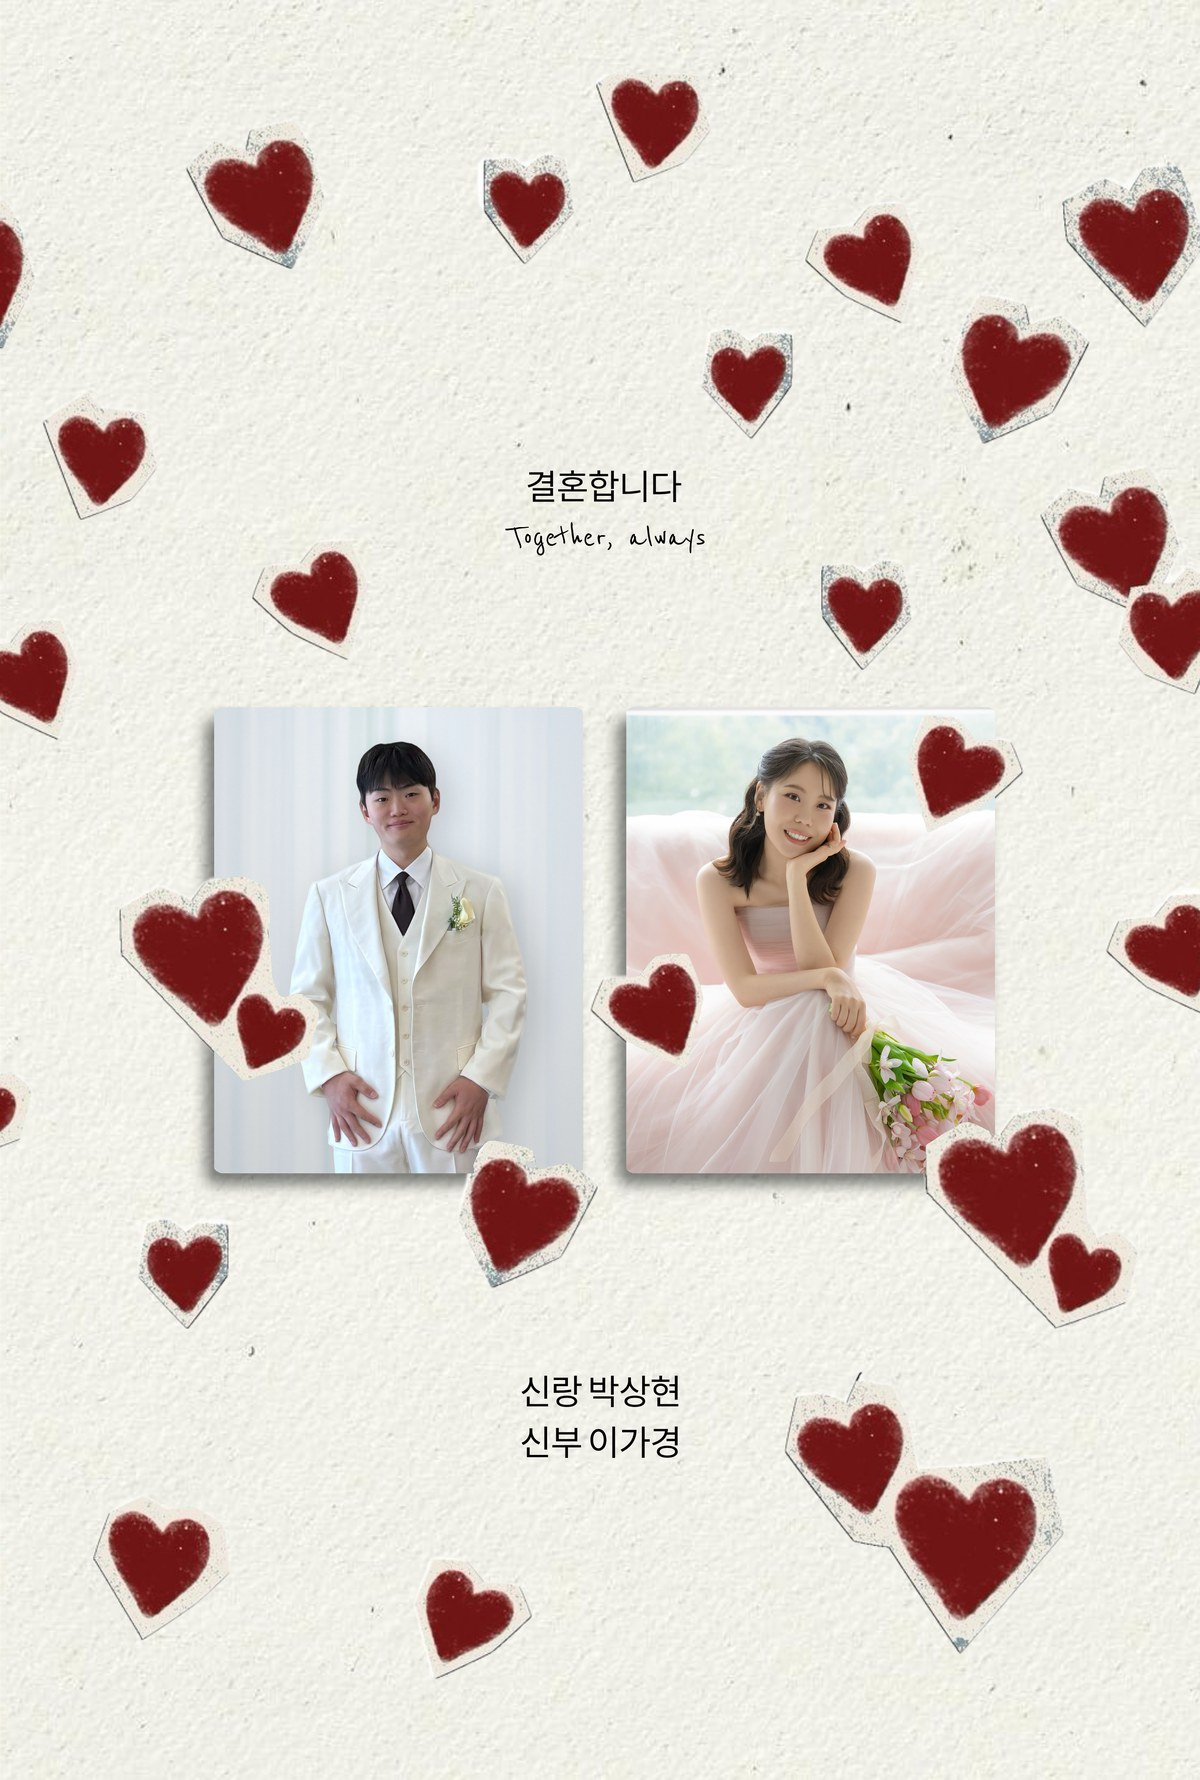
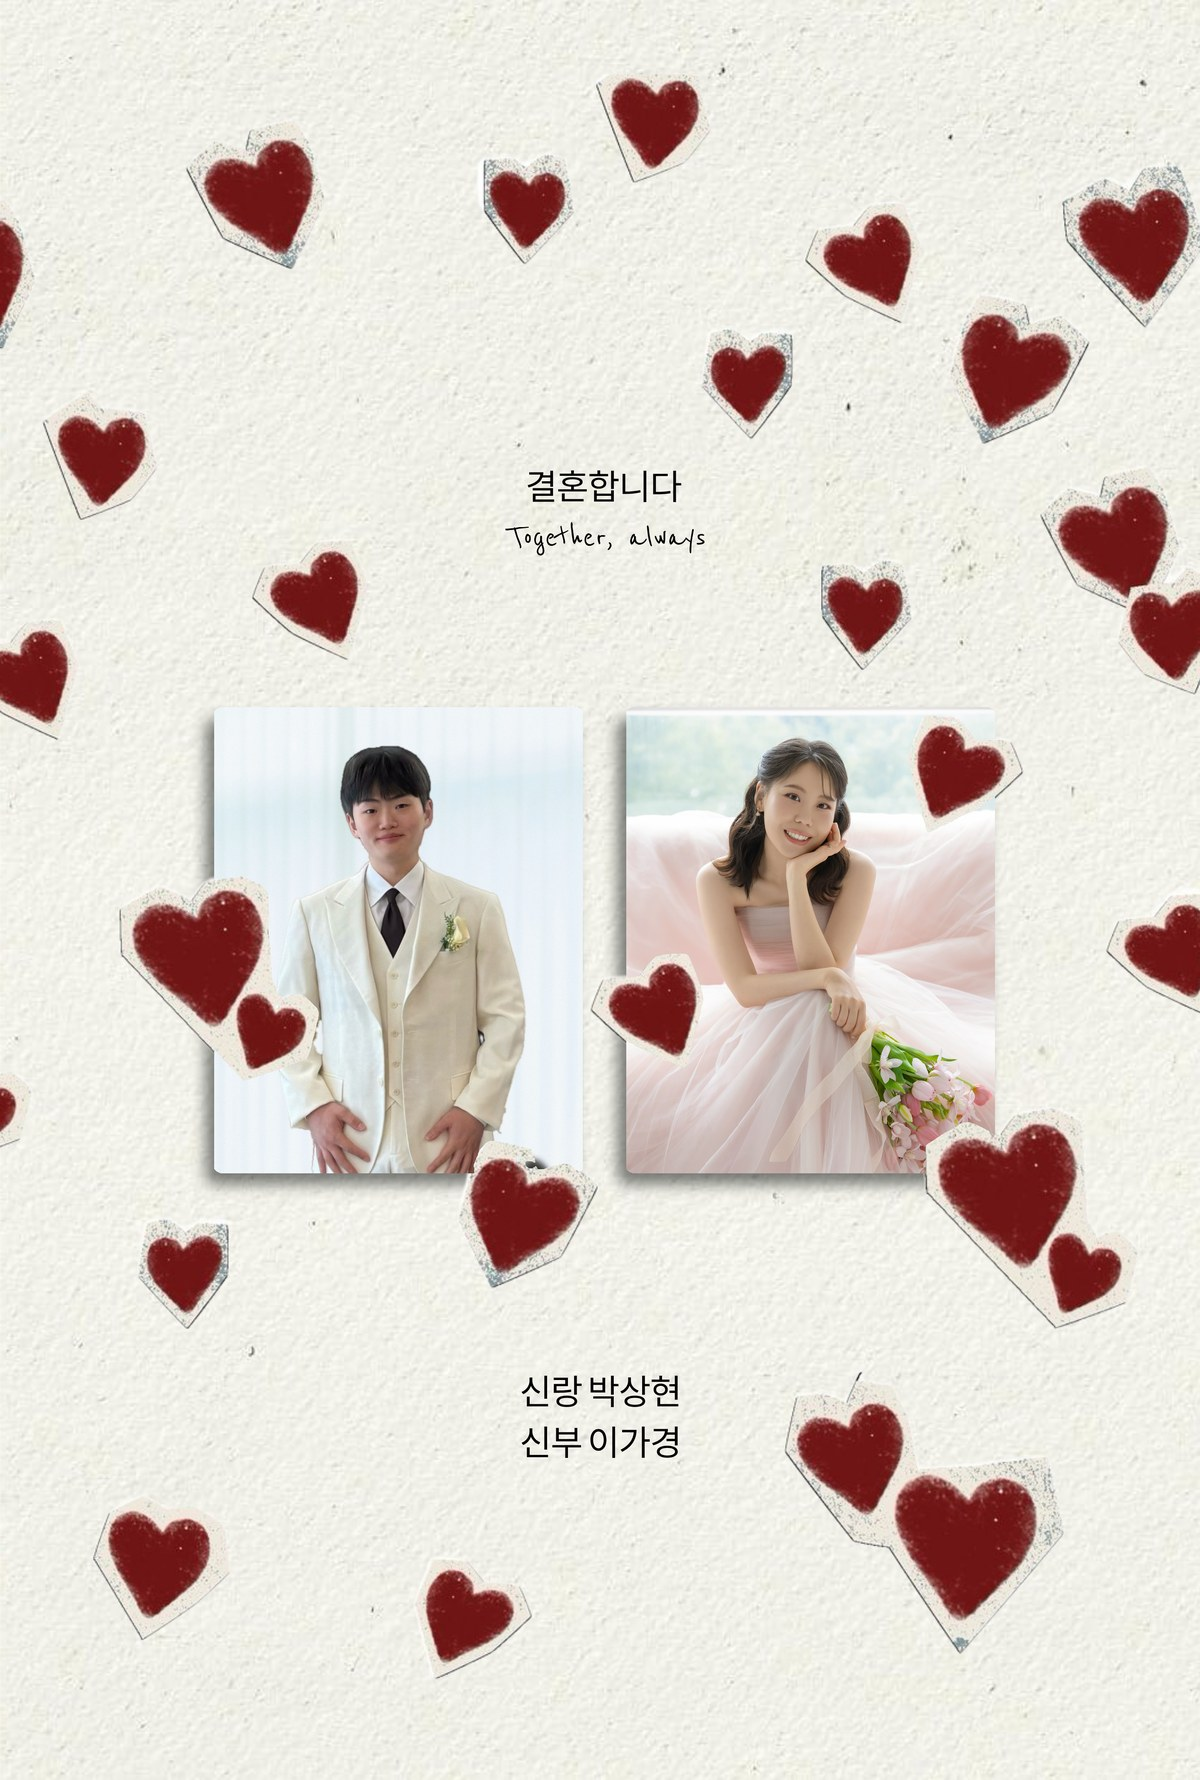
Update cover photo with refined white tuxedo groom portrait
- Clean up dark drop-shadow and sticker outline from groom cutout
- Perform color de-fringing to extend suit tones into semi-transparent edges
- Composite seamlessly onto studio white curtain background with soft light wrap
- Harmonize head size and eye level with bride portrait in cover windows
- Bump cover.jpg cache version to v=28 in index.html

Changed region(s): [[0.1542, 0.4017, 0.4933, 0.6798], [0.185, 0.4017, 0.2158, 0.4326]]

diff --git a/index.html b/index.html
@@ -7,7 +7,7 @@
   <title>박상현 ♥ 이가경 결혼합니다</title>
   <meta property="og:title" content="박상현 ♥ 이가경 결혼합니다">
   <meta property="og:description" content="2027년 2월 13일 토요일 낮 12시 10분">
-  <meta property="og:image" content="img/cover.jpg?v=27">
+  <meta property="og:image" content="img/cover.jpg?v=28">
   <link rel="preconnect" href="https://fonts.googleapis.com">
   <link rel="preconnect" href="https://fonts.gstatic.com" crossorigin>
   <link
@@ -29,7 +29,7 @@
 
     <!-- 1. 인트로 -->
     <section class="intro" id="intro">
-      <img src="img/cover.jpg?v=27" alt="박상현 이가경 결혼합니다">
+      <img src="img/cover.jpg?v=28" alt="박상현 이가경 결혼합니다">
     </section>
 
     <!-- 2. Our Wedding day -->
@@ -51,7 +51,7 @@
         <img src="img/tape.png" alt="">
         <p style="top:13.4%">해맑게 웃던 모습에 서로 반했고,</p>
         <p style="top:30%">그 웃음을 지켜보다보니</p>
-        <p style="top:47.7%">이제는 서로가 없어서는 안될 존재가 되었습니다.,</p>
+        <p style="top:47.7%">이제는 서로가 없어서는 안될 존재가 되었습니다.</p>
         <p style="top:65%">그 마음을 오래 지키기 위해</p>
         <p style="top:82.4%">이제 부부가 되려 합니다.</p>
       </div>

diff --git a/tools/process_groom_white.py b/tools/process_groom_white.py
@@ -1,0 +1,148 @@
+# -*- coding: utf-8 -*-
+import cv2
+import numpy as np
+from PIL import Image, ImageOps
+
+ROOT = r"d:\coding\Wedding"
+SRC_PATH = r"d:\coding\Wedding\웨딩사진\신랑사진_화이트.jpg"
+CURTAIN_PATH = r"d:\coding\Wedding\웨딩사진\15.jpg"
+MASK_PATH = r"d:\coding\Wedding\tools\rembg_mask.png"
+
+# Load source image
+src_img = Image.open(SRC_PATH).convert("RGB")
+src_rgb = np.array(src_img).astype(np.float32)
+H, W = src_rgb.shape[:2]
+
+# Load rembg mask
+mask_img = Image.open(MASK_PATH).convert("L")
+mask = np.array(mask_img).astype(np.float32) / 255.0
+
+# 1. Clean the suit body mask (y >= 340)
+# Detect the dark drop shadow on the outer border of the suit
+# Luminance: 0.299 R + 0.587 G + 0.114 B
+lum = 0.299 * src_rgb[..., 0] + 0.587 * src_rgb[..., 1] + 0.114 * src_rgb[..., 2]
+
+# Outer background mask (where original was white)
+is_white_bg = (src_rgb[..., 0] > 248) & (src_rgb[..., 1] > 248) & (src_rgb[..., 2] > 248)
+
+# Find pixels within distance of 8px from white background
+dist_to_bg = cv2.distanceTransform(is_white_bg.astype(np.uint8), cv2.DIST_L2, 5)
+dist_from_inside = cv2.distanceTransform((mask > 0.5).astype(np.uint8), cv2.DIST_L2, 5)
+
+# On the suit (y >= 340):
+# If a pixel has luminance < 170 and is within 7px of the outer edge, it's the artificial dark shadow!
+# Note: Hands at y > 750 have skin tone (R > G > B, lum ~140-190).
+# Let's check skin tone: (R > G + 15) & (G > B). We don't want to cut real fingers.
+is_skin = (src_rgb[..., 0] > src_rgb[..., 1] + 12) & (src_rgb[..., 1] > src_rgb[..., 2] - 5)
+is_shadow_fringe = (lum < 175) & ~is_skin & (dist_from_inside < 6.5)
+
+# Clear shadow fringe from mask for y >= 340
+clean_mask = mask.copy()
+suit_region = np.zeros((H, W), dtype=bool)
+suit_region[340:, :] = True
+clean_mask[suit_region & is_shadow_fringe] = 0.0
+
+# Morphological smoothing on clean_mask to remove small spikes/notches
+clean_mask_bin = (clean_mask > 0.5).astype(np.uint8)
+# Close small holes
+clean_mask_bin = cv2.morphologyEx(clean_mask_bin, cv2.MORPH_CLOSE, cv2.getStructuringElement(cv2.MORPH_ELLIPSE, (5, 5)))
+# Smooth edge with guided filter / bilateral / gaussian
+clean_alpha = cv2.GaussianBlur(clean_mask_bin.astype(np.float32), (5, 5), 1.0)
+# Ensure binary core is solid
+solid_core = cv2.erode(clean_mask_bin, np.ones((7, 7), np.uint8)).astype(bool)
+clean_alpha[solid_core] = 1.0
+
+# 2. Edge color decontamination (color extension / defringing)
+# For all edge pixels (0.01 < clean_alpha < 0.99), fill their RGB with the color of the solid foreground!
+fg_rgb = src_rgb.copy()
+# Erode solid foreground by 3px so we only sample true inner colors
+sample_mask = cv2.erode(clean_mask_bin, np.ones((5, 5), np.uint8)).astype(bool)
+# Normalized convolution for smooth color extension
+num = cv2.GaussianBlur(fg_rgb * sample_mask[..., None], (0, 0), 12)
+den = cv2.GaussianBlur(sample_mask.astype(np.float32), (0, 0), 12)[..., None] + 1e-6
+extended_color = num / den
+
+# Where alpha is semi-transparent, replace RGB with extended_color
+edge_region = (clean_alpha > 0.01) & (clean_alpha < 0.98)
+fg_decontaminated = np.where(edge_region[..., None], extended_color, fg_rgb)
+
+# Save intermediate cutout with transparent background
+rgba = np.dstack([fg_decontaminated, clean_alpha * 255]).clip(0, 255).astype(np.uint8)
+Image.fromarray(rgba).save(r"d:\coding\Wedding\tools\clean_groom_cutout.png")
+print("Saved clean_groom_cutout.png")
+
+# 3. Create Studio Curtain Background (matching 15.jpg)
+cur = ImageOps.exif_transpose(Image.open(CURTAIN_PATH)).convert("RGB")
+cw, ch = cur.size
+band = cur.crop((0, 0, cw, int(ch * 0.32)))
+# Target canvas for groom: 885 x 1119 (the exact window size in poster)
+TARGET_W, TARGET_H = 885, 1119
+
+# Resize curtain band to fill TARGET_W, TARGET_H
+k = TARGET_H * 1.0 / band.height
+band_resized = band.resize((int(band.width * k * 0.55), TARGET_H), Image.LANCZOS)
+bg_canvas = Image.new("RGB", (TARGET_W, TARGET_H))
+cur_x = 0
+flip = False
+while cur_x < TARGET_W:
+    tile = ImageOps.mirror(band_resized) if flip else band_resized
+    bg_canvas.paste(tile, (cur_x, 0))
+    cur_x += band_resized.width
+    flip = not flip
+
+# Soft depth of field blur on curtain
+bg_arr = cv2.GaussianBlur(np.array(bg_canvas).astype(np.float32), (0, 0), 6)
+# Match lighting: slight brightness and gentle radial vignette
+bg_arr *= 0.98
+
+# 4. Place groom onto the curtain background
+# We want head top around y = 85, head width ~ 240
+# Groom cutout: hair top is at y=160, chin at y=360 (height 200), width ~ 460
+# Scale factor:
+scale = 1.35
+new_w = int(W * scale)
+new_h = int(H * scale)
+
+# Resize fg and alpha
+fg_resized = cv2.resize(fg_decontaminated, (new_w, new_h), interpolation=cv2.INTER_LANCZOS4)
+alpha_resized = cv2.resize(clean_alpha, (new_w, new_h), interpolation=cv2.INTER_LANCZOS4)
+
+# We want hair top (was at y=160 -> now at 160 * 1.35 = 216) to be at y = 90
+paste_y = 90 - int(160 * scale)
+# Center horizontally: groom center is around x = 288 * scale = 388 -> want at 442
+paste_x = (TARGET_W // 2) - int(288 * scale)
+
+# Composite onto bg_canvas
+out_canvas = bg_arr.copy()
+
+# Compute overlap
+src_y0 = max(0, -paste_y)
+src_y1 = min(new_h, TARGET_H - paste_y)
+src_x0 = max(0, -paste_x)
+src_x1 = min(new_w, TARGET_W - paste_x)
+
+dst_y0 = max(0, paste_y)
+dst_y1 = dst_y0 + (src_y1 - src_y0)
+dst_x0 = max(0, paste_x)
+dst_x1 = dst_x0 + (src_x1 - src_x0)
+
+fg_patch = fg_resized[src_y0:src_y1, src_x0:src_x1]
+a_patch = alpha_resized[src_y0:src_y1, src_x0:src_x1, None]
+bg_patch = out_canvas[dst_y0:dst_y1, dst_x0:dst_x1]
+
+# Light wrap (subtle wrap around groom body to integrate with white background)
+bgb = cv2.GaussianBlur(bg_patch, (0, 0), 25)
+wrap = np.clip(cv2.GaussianBlur(a_patch[..., 0], (0, 0), 8) - cv2.GaussianBlur(a_patch[..., 0], (0, 0), 16), 0, 0.25)[..., None]
+fg_blended = fg_patch * (1 - wrap) + np.maximum(fg_patch, bgb) * wrap
+
+comp_patch = fg_blended * a_patch + bg_patch * (1 - a_patch)
+out_canvas[dst_y0:dst_y1, dst_x0:dst_x1] = comp_patch
+
+# Add delicate photographic film grain matching studio portrait
+noise = np.random.default_rng(42).normal(0, 1.8, (TARGET_H, TARGET_W, 1)).astype(np.float32)
+out_canvas = np.clip(out_canvas + noise, 0, 255).astype(np.uint8)
+
+out_img = Image.fromarray(out_canvas)
+out_path = r"d:\coding\Wedding\tools\test_groom_fitted.jpg"
+out_img.save(out_path, quality=95)
+print(f"Saved fitted groom window: {out_path} ({TARGET_W}x{TARGET_H})")

diff --git a/tools/make_mockup_cards.py b/tools/make_mockup_cards.py
@@ -1,0 +1,147 @@
+# -*- coding: utf-8 -*-
+import os
+import shutil
+from PIL import Image, ImageDraw, ImageFont
+
+ROOT = r"d:\coding\Wedding"
+TAPE_PATH = os.path.join(ROOT, "img", "tape.png")
+BG_PATH = os.path.join(ROOT, "img", "bg-wine.jpg")
+FONTS_DIR = os.path.join(ROOT, "tools", "fonts")
+OUT_DIR = os.path.join(ROOT, "tools", "mockups_clean")
+ARTIFACT_DIR = r"C:\Users\pshyu\.gemini\antigravity\brain\90308072-c840-4aae-9a8e-acf47a12716f\mockups"
+
+os.makedirs(OUT_DIR, exist_ok=True)
+os.makedirs(ARTIFACT_DIR, exist_ok=True)
+
+# 5 lines
+LINES = [
+    (0.134, "해맑게 웃던 모습에 서로 반했고,"),
+    (0.300, "그 웃음을 지켜보다보니"),
+    (0.477, "이제는 서로가 없어서는 안될 존재가 되었습니다."),
+    (0.650, "그 마음을 오래 지키기 위해"),
+    (0.824, "이제 부부가 되려 합니다.")
+]
+
+# Candidates: (num, code, display_name, description, font_file, font_size)
+CANDIDATES = [
+    (1, "gowun_dodum", "고운돋움", "라벨기 인쇄 감성 · 단정하고 깔끔한 감성 고딕", "GowunDodum-Regular.ttf", 46),
+    (2, "gowun_batang", "고운바탕", "시집·문학작품 같은 서정적이고 단아한 명조", "GowunBatang-Regular.ttf", 46),
+    (3, "gaegu", "개구 (기존)", "자유롭고 귀여운 내추럴 손글씨", "Gaegu-Regular.ttf", 52),
+    (4, "dongle", "동글", "둥글둥글 따뜻하고 아기자기한 볼펜체", "Dongle-Regular.ttf", 68),
+    (5, "hi_melody", "하이멜로디", "소녀 일기장처럼 부드럽고 산뜻한 펜글씨", "HiMelody-Regular.ttf", 52),
+    (6, "gamja_flower", "감자꽃", "또박또박 정성스럽게 쓴 일기장 손글씨", "GamjaFlower-Regular.ttf", 48),
+    (7, "poor_story", "푸어스토리", "빈티지 다이어리 느낌의 내추럴 펜체", "PoorStory-Regular.ttf", 48),
+    (8, "yeon_sung", "연성체", "붓펜 캘리 느낌의 따뜻하고 운치 있는 글씨", "YeonSung-Regular.ttf", 48),
+    (9, "song_myung", "송명", "붓터치가 느껴지는 기품 있고 우아한 명조", "SongMyung-Regular.ttf", 48),
+]
+
+tape_raw = Image.open(TAPE_PATH).convert("RGBA")
+tw, th = tape_raw.size
+
+# Background tile
+bg_tile = Image.open(BG_PATH).convert("RGB")
+
+def render_single_mockup(cand):
+    num, code, name, desc, font_file, fsize = cand
+    font_path = os.path.join(FONTS_DIR, font_file)
+    font = ImageFont.truetype(font_path, fsize)
+    
+    # Canvas: width = tw + 80 = 1080, height = th + 180 = 946
+    cw, ch = tw + 80, th + 170
+    
+    # Tile wine bg
+    canvas = Image.new("RGB", (cw, ch))
+    for x in range(0, cw, bg_tile.width):
+        for y in range(0, ch, bg_tile.height):
+            canvas.paste(bg_tile, (x, y))
+            
+    # Paste tape
+    tape_x = (cw - tw) // 2
+    tape_y = 120
+    canvas.paste(tape_raw, (tape_x, tape_y), tape_raw)
+    
+    draw = ImageDraw.Draw(canvas)
+    
+    # Title badge on top
+    badge_x0, badge_y0 = 30, 20
+    badge_x1, badge_y1 = cw - 30, 100
+    # Rounded badge
+    draw.rounded_rectangle([badge_x0, badge_y0, badge_x1, badge_y1], radius=12, fill=(40, 10, 15, 230), outline=(212, 175, 55), width=2)
+    
+    header_font = ImageFont.truetype(os.path.join(FONTS_DIR, "GowunDodum-Regular.ttf"), 30)
+    sub_font = ImageFont.truetype(os.path.join(FONTS_DIR, "GowunDodum-Regular.ttf"), 20)
+    
+    draw.text((cw // 2, badge_y0 + 26), f"[{num}번] {name}", font=header_font, fill=(255, 245, 220), anchor="mm")
+    draw.text((cw // 2, badge_y0 + 58), desc, font=sub_font, fill=(230, 210, 190), anchor="mm")
+    
+    # Text lines on tape
+    for rel_y, line_text in LINES:
+        ty = tape_y + int(th * rel_y)
+        tx = cw // 2
+        draw.text((tx, ty), line_text, font=font, fill=(44, 26, 18), anchor="mm")
+        
+    return canvas
+
+rendered_images = []
+for cand in CANDIDATES:
+    img = render_single_mockup(cand)
+    filename = f"mockup_{cand[0]}_{cand[1]}.jpg"
+    out_path = os.path.join(OUT_DIR, filename)
+    img.save(out_path, quality=93)
+    
+    # Also copy to artifact dir
+    art_path = os.path.join(ARTIFACT_DIR, filename)
+    img.save(art_path, quality=93)
+    
+    rendered_images.append((cand, img, out_path, art_path))
+    print(f"Rendered {filename}")
+
+# Generate a 3x3 compact comparison grid (or 3-column / 3-row)
+# Let's create a 3x3 grid overview:
+cols = 3
+rows = 3
+cell_w = 480
+cell_h = int(946 * (480 / 1080))
+grid_w = cell_w * cols + 40
+grid_h = cell_h * rows + 60
+
+grid_img = Image.new("RGB", (grid_w, grid_h), (25, 6, 9))
+for idx, (cand, img, _, _) in enumerate(rendered_images):
+    c = idx % cols
+    r = idx // cols
+    x = 20 + c * cell_w
+    y = 30 + r * cell_h
+    resized = img.resize((cell_w, cell_h), Image.Resampling.LANCZOS)
+    grid_img.paste(resized, (x, y))
+
+grid_path = os.path.join(OUT_DIR, "font_comparison_grid.jpg")
+grid_img.save(grid_path, quality=92)
+grid_art_path = os.path.join(ARTIFACT_DIR, "font_comparison_grid.jpg")
+grid_img.save(grid_art_path, quality=92)
+print("Grid image saved:", grid_art_path)
+
+# Also generate two stacked comparison sheets for comfortable mobile/desktop scrolling:
+# Sheet 1: 1~5
+# Sheet 2: 6~9
+def make_vertical_sheet(cands_indices, sheet_name):
+    selected = [rendered_images[i] for i in cands_indices]
+    sw = 800
+    sh = int(946 * (800 / 1080)) * len(selected) + 20 * (len(selected) + 1)
+    sheet = Image.new("RGB", (sw, sh), (20, 5, 8))
+    cur_y = 20
+    for cand, img, _, _ in selected:
+        h = int(946 * (800 / 1080))
+        res = img.resize((sw - 40, h), Image.Resampling.LANCZOS)
+        sheet.paste(res, (20, cur_y))
+        cur_y += h + 20
+    s_path = os.path.join(OUT_DIR, sheet_name)
+    sheet.save(s_path, quality=92)
+    s_art = os.path.join(ARTIFACT_DIR, sheet_name)
+    sheet.save(s_art, quality=92)
+    print("Saved sheet:", s_art)
+
+make_vertical_sheet([0, 1, 2, 3], "sheet_part1.jpg")
+make_vertical_sheet([4, 5, 6, 7, 8], "sheet_part2.jpg")
+
+print("All mockups successfully generated and copied to artifact directory!")
+

diff --git a/tools/download_fonts.py b/tools/download_fonts.py
@@ -1,0 +1,33 @@
+# -*- coding: utf-8 -*-
+import os
+import urllib.request
+
+FONTS_DIR = r"d:\coding\Wedding\tools\fonts"
+os.makedirs(FONTS_DIR, exist_ok=True)
+
+font_catalog = {
+    "1_gowun_dodum": ("GowunDodum-Regular.ttf", "https://raw.githubusercontent.com/google/fonts/main/ofl/gowundodum/GowunDodum-Regular.ttf"),
+    "2_gowun_batang": ("GowunBatang-Regular.ttf", "https://raw.githubusercontent.com/google/fonts/main/ofl/gowunbatang/GowunBatang-Regular.ttf"),
+    "3_gaegu": ("Gaegu-Regular.ttf", "https://raw.githubusercontent.com/google/fonts/main/ofl/gaegu/Gaegu-Regular.ttf"),
+    "4_dongle": ("Dongle-Regular.ttf", "https://raw.githubusercontent.com/google/fonts/main/ofl/dongle/Dongle-Regular.ttf"),
+    "5_hi_melody": ("HiMelody-Regular.ttf", "https://raw.githubusercontent.com/google/fonts/main/ofl/himelody/HiMelody-Regular.ttf"),
+    "6_gamja_flower": ("GamjaFlower-Regular.ttf", "https://raw.githubusercontent.com/google/fonts/main/ofl/gamjaflower/GamjaFlower-Regular.ttf"),
+    "7_poor_story": ("PoorStory-Regular.ttf", "https://raw.githubusercontent.com/google/fonts/main/ofl/poorstory/PoorStory-Regular.ttf"),
+    "8_yeon_sung": ("YeonSung-Regular.ttf", "https://raw.githubusercontent.com/google/fonts/main/ofl/yeonsung/YeonSung-Regular.ttf"),
+    "9_song_myung": ("SongMyung-Regular.ttf", "https://raw.githubusercontent.com/google/fonts/main/ofl/songmyung/SongMyung-Regular.ttf"),
+}
+
+for key, (filename, url) in font_catalog.items():
+    dest = os.path.join(FONTS_DIR, filename)
+    if not os.path.exists(dest) or os.path.getsize(dest) < 1000:
+        print(f"Downloading {filename}...")
+        try:
+            req = urllib.request.Request(url, headers={'User-Agent': 'Mozilla/5.0'})
+            with urllib.request.urlopen(req) as resp, open(dest, 'wb') as f:
+                f.write(resp.read())
+            print(f"Downloaded {filename}: {os.path.getsize(dest)} bytes")
+        except Exception as e:
+            print(f"Error downloading {filename}: {e}")
+    else:
+        print(f"Found {filename}: {os.path.getsize(dest)} bytes")
+
